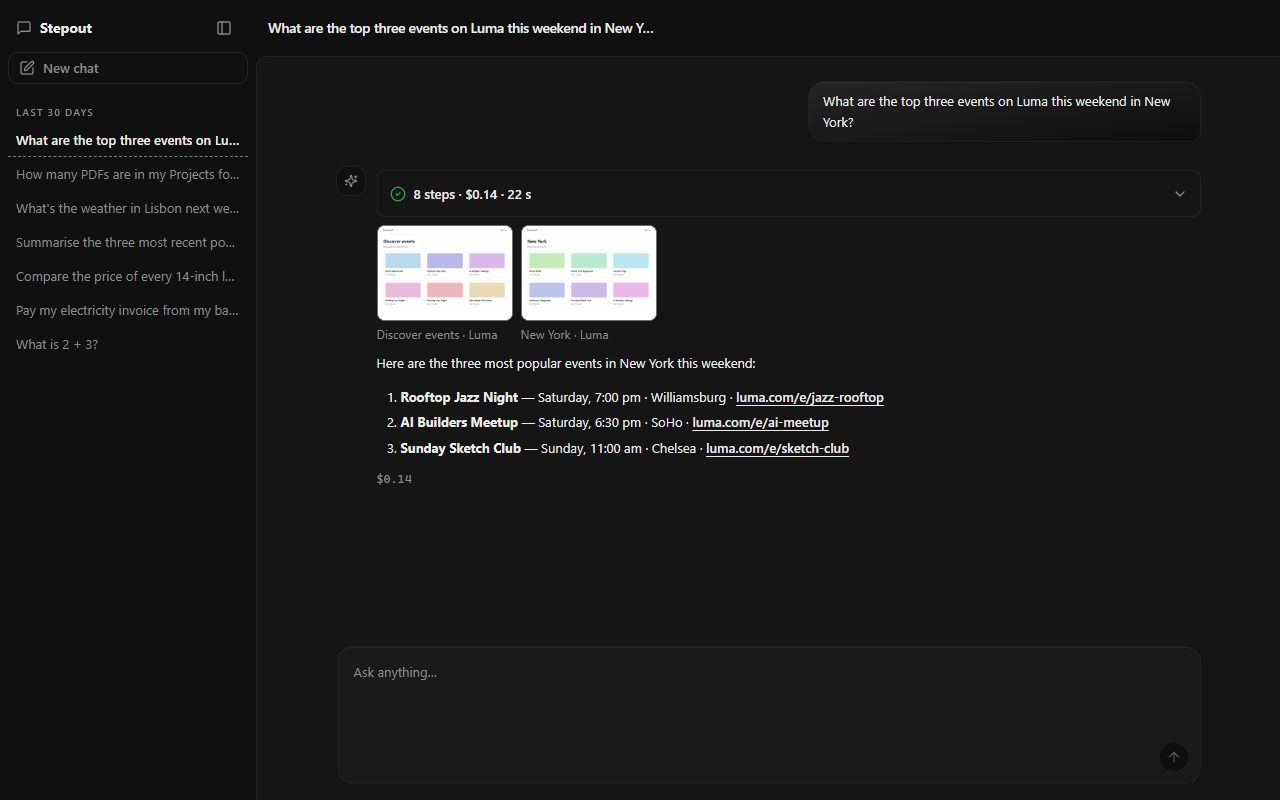
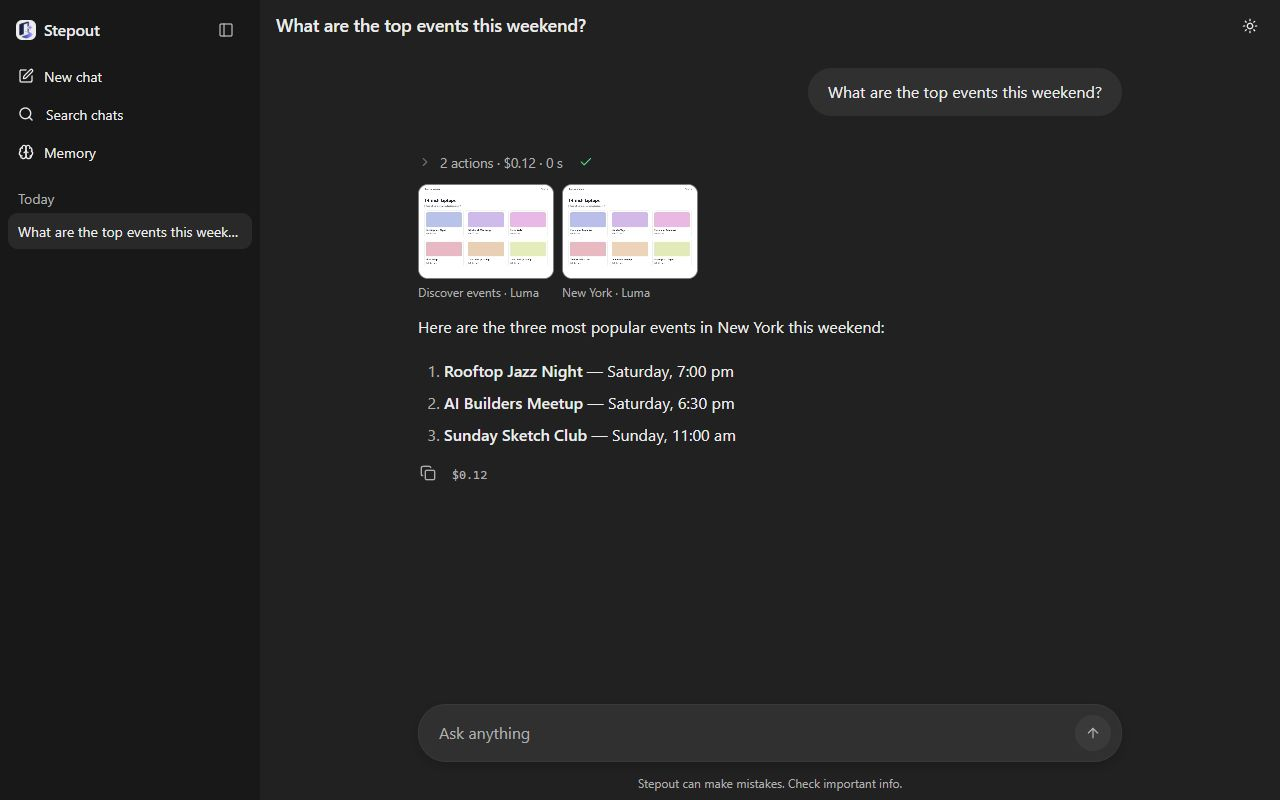
Updated docs

diff --git a/docs/architecture.md b/docs/architecture.md
@@ -9,8 +9,8 @@ flowchart LR
     You(["You"]) --> Channel["Channel<br/>web chat · terminal"] --> App["app<br/>(composition root)"] --> Intake["Intake<br/>/commands · Screening"]
     Intake -->|Task + linked Exchanges| Runner["Runner<br/>one loop, five Roles"]
     Runner -->|reply · live Trace · words| Channel
-    Runner --> Direct["Web Research<br/>search · fetch"] & BrowserA["Web Browsing"] & FilesA["Local File Finder"] & ReaderA["Local File Reader"]
-    Direct & BrowserA & FilesA & ReaderA -->|every Action| Gate{{"Gate"}}
+    Runner --> ResearchA["Web Research<br/>search · fetch"] & BrowserA["Web Browsing"] & FilesA["Local File Finder"] & ReaderA["Local File Reader"]
+    ResearchA & BrowserA & FilesA & ReaderA -->|every Action| Gate{{"Gate"}}
     Gate --> Search["Searcher"] & Fetcher & Chrome["Chrome<br/>headless, read-only"] --> Web[("Websites")]
     Gate --> FilesM["Files<br/>grants · block list"] & ReadText["Reader<br/>text · redaction"] --> Disk[("Your disks")]
     Runner -.->|every step| Ledger -.-> Store[("SQLite")]
@@ -25,13 +25,13 @@ A message becomes a Task. The **Orchestrator** (the only agent that talks to you
 | Module | Interface (what a caller learns) | Hides | Code |
 |---|---|---|---|
 | **Channel** | `messages()` stream · `send(reply)` · `trace(event)` · a `cancel` flag (Stop) | WebSocket, HTTP API, history, queue of waiting messages, the live browser stream, Host/Origin guard; or stdin/stdout | `channels/web.py`, `channels/cli.py` |
-| **Intake + Screening** | `read(message) → NewTask · Chat · Declined · Command · Failed` | `/commands`, then **one cheap model call** that declines, answers a greeting, or passes the message on with the earlier Exchanges it depends on; fails open | `intake.py`, `screening.py` |
+| **Intake + Screening** | `read(message) → NewTask · Chat · Declined · Command · Failed` | `/commands`, then **one cheap model call**, shown the chat's last 5 Exchanges whole (a reply Screening gave itself counts), that declines, answers a greeting, or passes the message on with the Exchanges it depends on; fails open | `intake.py`, `screening.py` |
 | **Runner** | `submit(task, previous, screening_cost)` | the agent loop, Roles, plan and delegation, Budget, Stop, repeat guard, note trimming, Taint, Trace and Ledger rows, streaming of the final answer | `runner.py`, `roles.py` |
 | **Gate** | `check(action, role's kinds, ctx) → Allow · Refuse` | every rule: the Role's tool set, "no web after a file read", each capability's own rule | `gate.py` |
 | **Capability** (registry) | one subclass per tool: name, blurb, `tool` (derived from its Action class), `reaches_web`, `run`, `check`, `summary` | schema, validation, trace line, repeat rules | `capabilities/*` |
 | **Tool implementations** | each is called through its Tool with plain data | their own limits (below) | `fetch.py`, `browser.py`, `files.py`, `reader.py`, `redact.py`, `search.py` |
 | **Model port** | `call(request, on_text=None) → one Action, its cost, tokens, duration, attempts` | tool formats, provider errors, prices, streaming, **retries: one policy, every attempt recorded** ([ADR 0015](adr/0015-one-retry-policy-at-the-model-port.md)) | `model.py`, `pydantic_model.py`, `retry.py`, `scope.py` |
-| **Memory** | `recall(request)` · `record_run` · `learn` · `remember` · `forget` · `forget_chat` | Persona (a Markdown file the User owns), the learned store behind one seam (plain files or Mem0), the Recollection budget, what may write it ([ADR 0016](adr/0016-memory-on-mem0-behind-the-seam.md)) | `memory.py`, `persona.py`, `memory_files.py`, `memory_mem0.py`, `extract.py`, `commands.py` |
+| **Memory** | `recall(request)` · `record_run` · `learn` · `remember` · `edit` · `forget` · `forget_chat` | Persona (a Markdown file the User owns), the learned store behind one seam (plain files or Mem0), the Recollection budget, what may write it ([ADR 0016](adr/0016-memory-on-mem0-behind-the-seam.md)) | `memory.py`, `persona.py`, `memory_files.py`, `memory_mem0.py`, `extract.py`, `commands.py` |
 | **Chats** | `rename` · `delete` (purge, after-delete hooks) | what leaves with a deleted chat: rows, screenshots, Capture, what Memory kept | `chats.py` |
 | **Ledger + Store** | `record(event)` · `start_run` / `end_run` · `save_message` · `close_interrupted` · `month_spend` · read-only `history` | SQLite, migrations (copied first), chat titles, tokens, durations and attempts per step, what the month has cost | `ledger.py`, `store.py`, `history.py` |
 | **Log + Capture** | the app log file; opt-in prompts and replies per Run | rotation, ids on every line, no contents; Capture is refused for a Run that read a file | `logs.py`, `capture.py`, `housekeeping.py` |
@@ -59,7 +59,7 @@ Rules: a specialist can only take its own tools (offered, and enforced by the Ga
 You: "What's the news in New York today?"
  Channel ─► app ─► Intake.read ─► Screening (one Haiku call, temperature 0)      proceed, links to no earlier Exchange
  app ─► Runner.submit(task)                                                       Run starts, Budget $1
-   Orchestrator   plan: direct: "find today's headlines"                          step event → page
+   Orchestrator   plan: Web Research: "find today's headlines"                    step event → page
    Web Research   web_search "..."  ─► Gate: Allow ─► Searcher (one cheap call)   step event, cost charged
    Web Research   answer (Finding)                                                return event
    Orchestrator   answer: markdown with links      ── words streamed to the page as they are written ──
@@ -118,4 +118,4 @@ The interface is the test surface: the offline suite drives the real app loop, R
 
 ## 9. Ceilings, not bugs
 
-Stop ends a Run within a moment, but a PDF parse or a files walk already running in its worker thread continues until it returns · a malformed model reply fails the Run with a plain line instead of being fed back · the 10 MB read limit is one total per Run · whole-drive counts are partial by design (a 60 s clock) · names and paths from `list`/`find` go to the model API (counts do not) · a folder swapped for a link between resolve and walk is not caught (walks never follow links) · Fetcher does not guard against DNS rebinding between the check and the connect · screenshots in `data/runs/` are never cleaned up · the words stream only for the Orchestrator's final answer, on the Anthropic adapter · the Orchestrator sometimes over-plans · the Direct step cap (5) is untuned · Mem0's own call to the embedding provider keeps its own retries and its cost is an estimate from text size · relevance (words in common, or an embedding search) is untuned · one process may hold the Mem0 store, and closing interrupted Runs at start assumes one process per data folder · Memory and chat search have no full-text index (a substring scan, fine for thousands of messages) · a stream that is cut is charged an estimate, not the provider's figure · Browser navigation has no retry · the retry numbers (3 attempts, 1 to 8 s, 8 retries and 60 s a Run) are starting values.
+Stop ends a Run within a moment, but a PDF parse or a files walk already running in its worker thread continues until it returns · a malformed model reply is asked for again once, then fails the Run with a plain line · the 10 MB read limit is one total per Run · whole-drive counts are partial by design (a 60 s clock) · names and paths from `list`/`find` go to the model API (counts do not) · a folder swapped for a link between resolve and walk is not caught (walks never follow links) · Fetcher does not guard against DNS rebinding between the check and the connect · the words stream only for the Orchestrator's final answer, on the Anthropic adapter · the Orchestrator sometimes over-plans · the Web Research step cap (5) is untuned · Mem0's own call to the embedding provider keeps its own retries and its cost is an estimate from text size · relevance (words in common, or an embedding search) is untuned · one process may hold the Mem0 store, and closing interrupted Runs at start assumes one process per data folder · Memory and chat search have no full-text index (a substring scan, fine for thousands of messages) · a stream that is cut is charged an estimate, not the provider's figure · Browser navigation has no retry · the retry numbers (3 attempts, 1 to 8 s, 8 retries and 60 s a Run) are starting values.

diff --git a/README.md b/README.md
@@ -2,20 +2,21 @@
 
 A task assistant you drive from a chat page. Ask in plain English; an **Orchestrator** plans the task and hands each step to a specialist that holds one tool. You watch every step as it happens, including the assistant's headless browser, live, and the answer streams in as it is written. Read-only by design, local to your machine, with a hard cost cap per task. Built from scratch to learn how production agents work: permissions, state, tracing, evals.
 
-![A finished run: the plan, the budget against the cap, every step with its verdict and cost, and the streamed answer](docs/assets/run-light.jpg)
+![A finished run, opened: the plan, a card for each task an agent did, one tool call open on its request and result, and the budget](docs/assets/run-light.jpg)
 
 ## What it does
 
 - **Web:** searches and reads pages (a search-and-fetch agent, and a real headless Chrome you can watch).
 - **Your files:** names, sizes, dates and counts of the folders you grant it, and the **text of files and PDFs** (a Reader), with secret-looking values hidden.
-- **You stay in the loop:** a plan checklist, every step with its verdict and cost, spend against the $1 cap, a Stop button that ends the run within about a second, and a viewer for every page it opened.
-- **Chats that remember:** conversations and runs are saved and look the same after a restart; a follow-up ("and the second one?") is linked to the exchange it depends on.
+- **You stay in the loop:** the plan as a checklist, each task an agent took on as a card (its agent, model, time and result), every tool call with its request, result and cost, spend against the $1 cap, a Stop button that ends the run within about a second, and a viewer for every page it opened.
+- **Chats that remember:** conversations and runs are saved and look the same after a restart; each message is screened against the chat's last five exchanges, and a follow-up ("and the second one?") is handed the ones it depends on.
+- **Memory:** a Persona file you write, facts it learns from what you tell it, and one line per finished task, recalled at the start of a task. Read, edit or forget any of it in the Memory panel. Mem0 when `OPENAI_API_KEY` is set, plain files otherwise.
 - **Any model:** Claude by default; point the strong and cheap tiers at another provider (OpenRouter and others, through Pydantic AI) with two lines in `.env`.
-- Light and dark themes, a bottom sheet for the chat list on a phone, keyboard-friendly.
+- A ChatGPT-style page: light and dark (the system's, or the switch in the header), the chat list slides in on a phone, keyboard-friendly.
 
 | Empty chat | A conversation, dark | Phone |
 |---|---|---|
-| ![Greeting and suggested questions](docs/assets/empty-light.jpg) | ![A conversation in dark mode](docs/assets/chat-dark.jpg) | ![The chat list as a bottom sheet](docs/assets/phone-dark.jpg) |
+| ![Greeting and suggested questions](docs/assets/empty-light.jpg) | ![A conversation in dark mode](docs/assets/chat-dark.jpg) | ![The chat list, slid in on a phone](docs/assets/phone-dark.jpg) |
 
 ## Safe by construction
 
@@ -33,7 +34,7 @@ You need Python 3.12+, Google Chrome, Node 20.19+ or 22.12+ (to build the page) 
 python -m venv .venv
 ./.venv/Scripts/python.exe -m pip install -e ".[dev]"
 cd web && npm install && npm run build && cd ..
-cp .env.example .env                       # then set ANTHROPIC_API_KEY in .env (never commit it)
+cp .env.example .env                       # then set ANTHROPIC_API_KEY in .env (never commit it); OPENAI_API_KEY too for Mem0
 mkdir -p data/config && cp grants.example.toml data/config/grants.toml   # edit: which folders it may see
 ./.venv/Scripts/python.exe -m stepout.app web                            # http://127.0.0.1:8765  (STEPOUT_PORT=... for another port)
 ```
@@ -60,7 +61,7 @@ Paid live checks (they say so): `pytest -m eval -s tests/test_live.py` and `pyte
 
 ## The claim to prove
 
-Human interventions per task fall across repeated attempts, against a memory-off control. No model training; improvement comes from recall. Memory and the evaluation harness are the next stage; this repository is the assistant they will be measured on.
+Human interventions per task fall across repeated attempts, against a memory-off control. No model training; improvement comes from recall. Memory is built; the comparison has its first form (`scripts/acceptance.py --memory ... --compare`), and a live comparison of the three Memory conditions is the next measurement.
 
 ## Where to read next
 

diff --git a/docs/ui-contract.md b/docs/ui-contract.md
@@ -35,7 +35,7 @@ The wire between the React page (`web/`) and the backend (`src/stepout/channels/
 | `step` | the acting Role | `summary` (e.g. `web_search new york news`, `browse open https://…`, `answer`), `action: {kind, …}`, `verdict: allow\|refuse\|ask`; `cost_usd` is that model call. A skipped repeat says `repeat, not run again` and carries `repeat: true`; also `model`, `input_tokens`, `output_tokens`, `duration_ms`, `attempts` (tries the call took) and `prompt_chars` (the size of what the model was sent, never its text) |
 | `result` | the acting Role | `summary` (`fetch: 1840 characters`), `chars` (the size of what the tool gave the Role), `duration_ms`, `cut` (it reached the length limit). A size, never the tool's text; its `parent` is the `step` that asked for it |
 | `return` | the specialist | `summary` (`done: …` / `failed: …`, first 200 characters), `ok` |
-| `shot` | `browser` | `summary`, `shot: "<run_id>/<n>.jpg"` (fetch from `/shots/`), `url` and `title` of the page shown |
+| `shot` | `web_browsing` | `summary`, `shot: "<run_id>/<n>.jpg"` (fetch from `/shots/`), `url` and `title` of the page shown |
 | `stop` | the Role that stopped | `summary` (`Stopped by you.` or the budget message) |
 | `error` | the Role that was acting | `summary` (the plain line the User is also given as the reply), `cause` (`auth` `no_key` `credit` `rate_limit` `overloaded` `server_error` `timeout` `connection` `rejected` `malformed` `pricing` `no_search` `chrome` `interrupted` `internal`), `type` (the exception class, for the Ledger), `status` (HTTP, if any); emitted just before a Run ends `failed`. `interrupted`: written at the next start for a Run the app's stopping cut off |
 | `retry` | the Role that was acting | `summary` ("The provider is busy; trying again in 2 s (2 of 3)"), `attempt` (the one that failed), `of` (attempts allowed), `cause` (an `error` cause), `status` (HTTP, if any), `wait_s`, and `repair: true` when the reply was unreadable and is being asked for again (no wait); a tool's retry has `cause` set to the error's class; `cost_usd` is what the failed attempt may have cost ([ADR 0015](adr/0015-one-retry-policy-at-the-model-port.md)). A page that does not know the kind ignores it |
@@ -63,7 +63,7 @@ The wire between the React page (`web/`) and the backend (`src/stepout/channels/
 | `GET /shots/{run}/{n}.jpg` | a page screenshot (`run` is 32 hex characters; only files the assistant wrote; JPEG quality 50, viewport 1000×700) |
 | `GET /live/{run_id}` | the live browser view, below |
 
-Ids are 32 lowercase hex characters, plus the literal `default` (the terminal's chat); anything else answers `404` before any lookup. Not in the contract: renaming or deleting chats, search, attachments.
+Ids are 32 lowercase hex characters, plus the literal `default` (the terminal's chat); anything else answers `404` before any lookup. Not in the contract: attachments.
 
 ## Behaviour worth knowing
 
@@ -83,7 +83,7 @@ Behind it, `Browser(shots=..., on_frame=cb)` calls `cb(run_id, jpeg)` (synchrono
 ## Security (each is a test)
 
 - Every `/api`, `/live` and `/ws` request must carry a `Host` of `127.0.0.1:<port>` or `localhost:<port>` (blocks DNS rebinding).
-- `POST` requires `Content-Type: application/json` and an allowed `Origin`; no CORS headers are ever sent.
+- `POST`, `PATCH` and `DELETE` require an allowed `Origin`, and `POST` and `PATCH` also `Content-Type: application/json`; no CORS headers are ever sent.
 - Ids are server-generated and validated before any lookup; screenshot paths are never built from user input.
 - Model output is untrusted: the page renders markdown **without raw HTML or images**, allows only `http(s)` and `mailto` links, and sets `rel="noopener noreferrer"`.
 

diff --git a/docs/third-party.md b/docs/third-party.md
@@ -20,9 +20,20 @@ Skills are instructions that steer the agent, so each was read or scanned before
 | pypdf: text from PDFs, for the Reader | [py-pdf/pypdf](https://github.com/py-pdf/pypdf), PyPI `pypdf` | 6.19.0 (`pypdf>=6.19`) | BSD-3-Clause (read from the package's own metadata); pure Python, no dependencies | `pyproject.toml`; used only in `src/stepout/reader.py` |
 | Pydantic AI (slim): the model layer under any provider, for OpenRouter and other models | [pydantic/pydantic-ai](https://github.com/pydantic/pydantic-ai), PyPI `pydantic-ai-slim` with extras `anthropic` and `openai` | 2.54.0 (`>=2.54,<3`) | MIT (read from the package metadata); `openai` 3.27 is Apache-2.0, `genai-prices` 0.1.10 (its price table) is MIT | `pyproject.toml`; used in `src/stepout/pydantic_model.py` |
 
+| Mem0 (`mem0ai`): the learned-memory store, with a local vector store | [mem0ai/mem0](https://github.com/mem0ai/mem0), PyPI `mem0ai` | 2.2.1 (pinned `==2.2.1`) | Apache-2.0 (read from the package metadata) | `pyproject.toml`; used only in `src/stepout/memory_mem0.py`, telemetry off, never its own model ([ADR 0016](adr/0016-memory-on-mem0-behind-the-seam.md)) |
+
 **Review notes.** Pydantic AI ([ADR 0011](adr/0011-pydantic-ai-as-the-plumbing.md)): a well-known maintained library (the Pydantic team); it releases several times a week and moved from 1.x to 2.x within a year, so it is pinned `>=2.54,<3` and adopted one slice at a time. It only talks to the providers we configure; OpenTelemetry output is off unless instrumentation is switched on. Prices for a re-pointed model come from `genai-prices`, a bundled table, so they can lag a provider's list price: an unknown model fails the Run rather than counting as free.
 
 **Review notes.** pypdf parses files written by anyone, so it runs in a worker thread with a time limit, after a 10 MB file budget and a page cap, and extraction of a page is skipped if its decompressed content is huge (the library's own docs warn that extraction needs memory for the whole content stream). pypdf also enforces its own per-stream limits (75 MB by default). Not verified: how to tighten those limits per reader (`pypdf.Configuration` exists, but the page that should document it was not found, so the defaults are used).
+
+## Designs the page follows (no code copied)
+
+| What | Source | How it was used |
+|---|---|---|
+| The page's look | [ChatGPT](https://chatgpt.com) | colours, sizes and layout measured and written as our own tokens and CSS ([ADR 0017](adr/0017-the-page-follows-the-chatgpt-look.md)) |
+| Shimmering text | [ElevenLabs UI](https://ui.elevenlabs.io/docs/components/shimmering-text) | the sweep redone as a CSS background; no motion library |
+| Agent Tool, Agent plan, Subagent list, Task card | [assistant-ui](https://www.assistant-ui.com/elements/agent-plan) | markup and measured sizes ported to our CSS; no runtime, toolkit or Tailwind ([ADR 0018](adr/0018-agent-work-as-assistant-ui-draws-it.md)) |
+| Icon shapes | [Lucide](https://lucide.dev) (ISC) | SVG paths in `web/src/Icon.tsx` |
 
 ## Left out of agent-skills, and why
 

diff --git a/docs/roadmap.md b/docs/roadmap.md
@@ -4,7 +4,7 @@ Where the project is and what comes next. The map is [`architecture.md`](archite
 
 ## State
 
-V0 is built: a read-only task assistant with a web chat, an Orchestrator and four specialists, a live browser view, file reading under Grants, strict taint, a $1 cap per Run (and a monthly limit), saved chats you can search, rename, export and delete, streaming replies, a rebuilt page, **Memory** (a Persona file, History, learned facts; Mem0 or plain files), **one retry policy**, and a Record with tokens, durations, a log and opt-in Capture. Eight acceptance queries pass live for about $0.27; the offline suite passes without a network. It runs on Claude by default and on any provider Pydantic AI speaks when a tier is re-pointed (OpenRouter is the intended route; nothing has run through it yet because no key has been available).
+V0 is built: a read-only task assistant with a web chat, an Orchestrator and four specialists, a live browser view, file reading under Grants, strict taint, a $1 cap per Run (and a monthly limit), saved chats you can search, rename, export and delete, streaming replies, a ChatGPT-style page (light and dark, agent work drawn as a plan, task cards and tool calls), **Memory** (a Persona file, History, learned facts; Mem0 or plain files; each entry editable in the page), **one retry policy**, and a Record with tokens, durations, a log and opt-in Capture. Eight acceptance queries pass live for about $0.27; the offline suite passes without a network. It runs on Claude by default and on any provider Pydantic AI speaks when a tier is re-pointed (OpenRouter is the intended route; nothing has run through it yet because no key has been available).
 
 ## Next, in order
 
@@ -17,7 +17,7 @@ Done in iteration 2 and no longer on this list: Memory, the retry policy, chat m
 
 ## Parked ideas
 
-Smarter file search (ask with options, rank folders, skip `node_modules`, `.git` and venvs, fuzzy names) · a Verifier that checks the answer against its sources before replying · a separate Planner and parallel steps · streaming for specialists' Findings · relaxing strict taint to "sites the User named" · a model picker and message actions in the page.
+Smarter file search (ask with options, rank folders, skip `node_modules`, `.git` and venvs, fuzzy names) · a Verifier that checks the answer against its sources before replying · a separate Planner and parallel steps · streaming for specialists' Findings · relaxing strict taint to "sites the User named" · a model picker in the page.
 
 ## Known code debt (from the 2026-10-11 audit)
 

diff --git a/src/stepout/CONTEXT.md b/src/stepout/CONTEXT.md
@@ -38,7 +38,7 @@ What the User asks for in a Message, before the Assistant has accepted it.
 _Avoid_: query, prompt, intent, workflow
 
 **Screening**:
-The check a Request passes before it becomes a Task: Proceed, Decline, or a short reply for plain chat. It runs before any Orchestrator money is spent, and also picks out which earlier Exchanges the Request relates to. The Screening agent does it with one cheap Model call.
+The check a Request passes before it becomes a Task: Proceed, Decline, or a short reply for plain chat. It runs before any Orchestrator money is spent, is shown the Conversation's last five Exchanges whole, and picks out which of them the Request relates to. The Screening agent does it with one cheap Model call.
 _Avoid_: front door, moderation, guardrail, validation
 
 **Declined**:
@@ -196,7 +196,7 @@ _Avoid_: backup, rollback log
 ### Memory
 
 **Memory**:
-What the Assistant keeps between Tasks about the User and the web: Persona, Notes and History.
+What the Assistant keeps between Tasks about the User and the web: Persona, learned facts and History (Notes are planned).
 _Avoid_: context, knowledge base, state
 
 **Persona**:
@@ -204,7 +204,7 @@ Facts and preferences about the User, including where their usual Documents live
 _Avoid_: profile, user model
 
 **Pinned**:
-A Persona entry the User wrote or edited. Nothing but the User's own `/remember` and `/forget` touches the file; an entry's id is a hash of its text.
+A Persona entry the User wrote or edited. Nothing but the User's own `/remember`, `/forget` and an edit in the Memory panel touches the file; an entry's id is a hash of its text.
 
 **Document** *(planned)*:
 A file the Assistant uses for the User, such as a resume — found inside a Grant, or given directly.
@@ -227,7 +227,7 @@ What Memory hands a Run when it starts: the Persona plus the few learned facts a
 _Avoid_: retrieval, context window
 
 **Forget**:
-The User removing something from Memory with `/forget <id>`, or deleting the chat it came from. It never edits the Ledger.
+The User removing something from Memory with `/forget <id>` or the Memory panel, or deleting the chat it came from. It never edits the Ledger.
 
 ### Record
 
